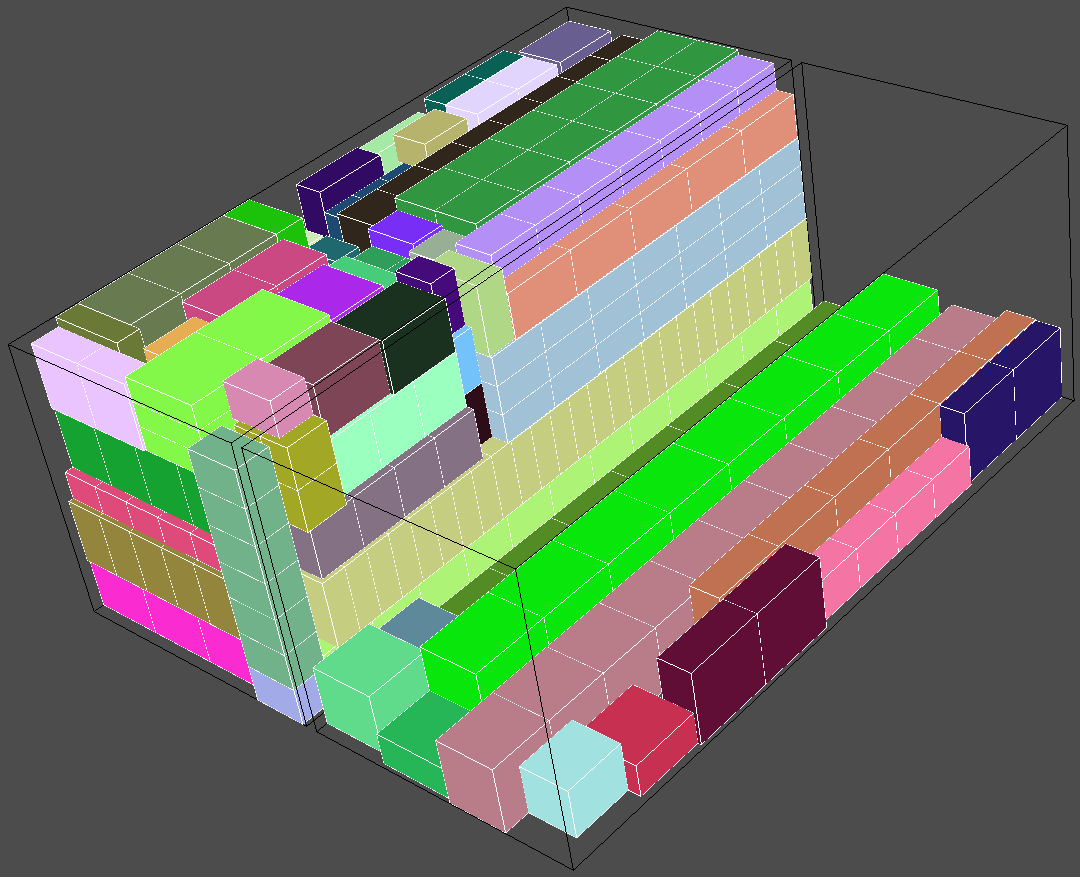
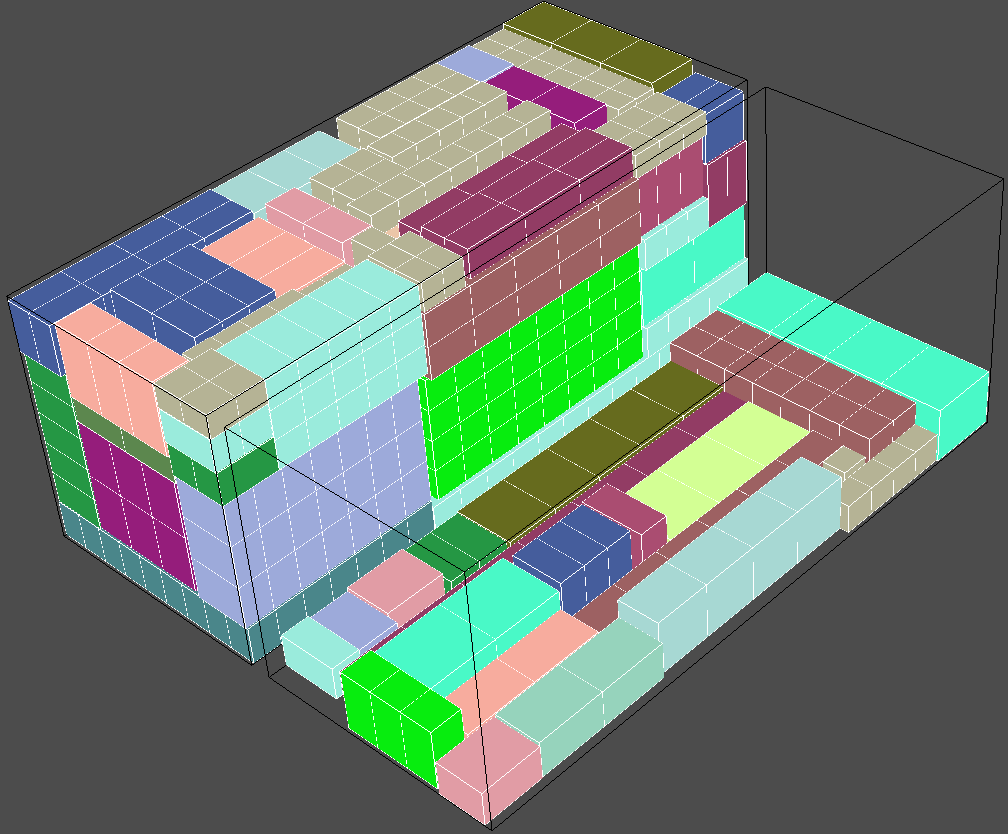
readme upd.

diff --git a/readme.md b/readme.md
@@ -60,7 +60,11 @@ Notes:
 
 ### 50 types of items.
 
-![draw-demo1.jpg](./resources/draw-demo5.png)
+![draw-demo5.jpg](./resources/draw-demo5.png)
+
+### 100 types of items.
+
+![draw-demo6.jpg](./resources/draw-demo6.png)
 
 ## Problems with `java3d` libraries?
 
